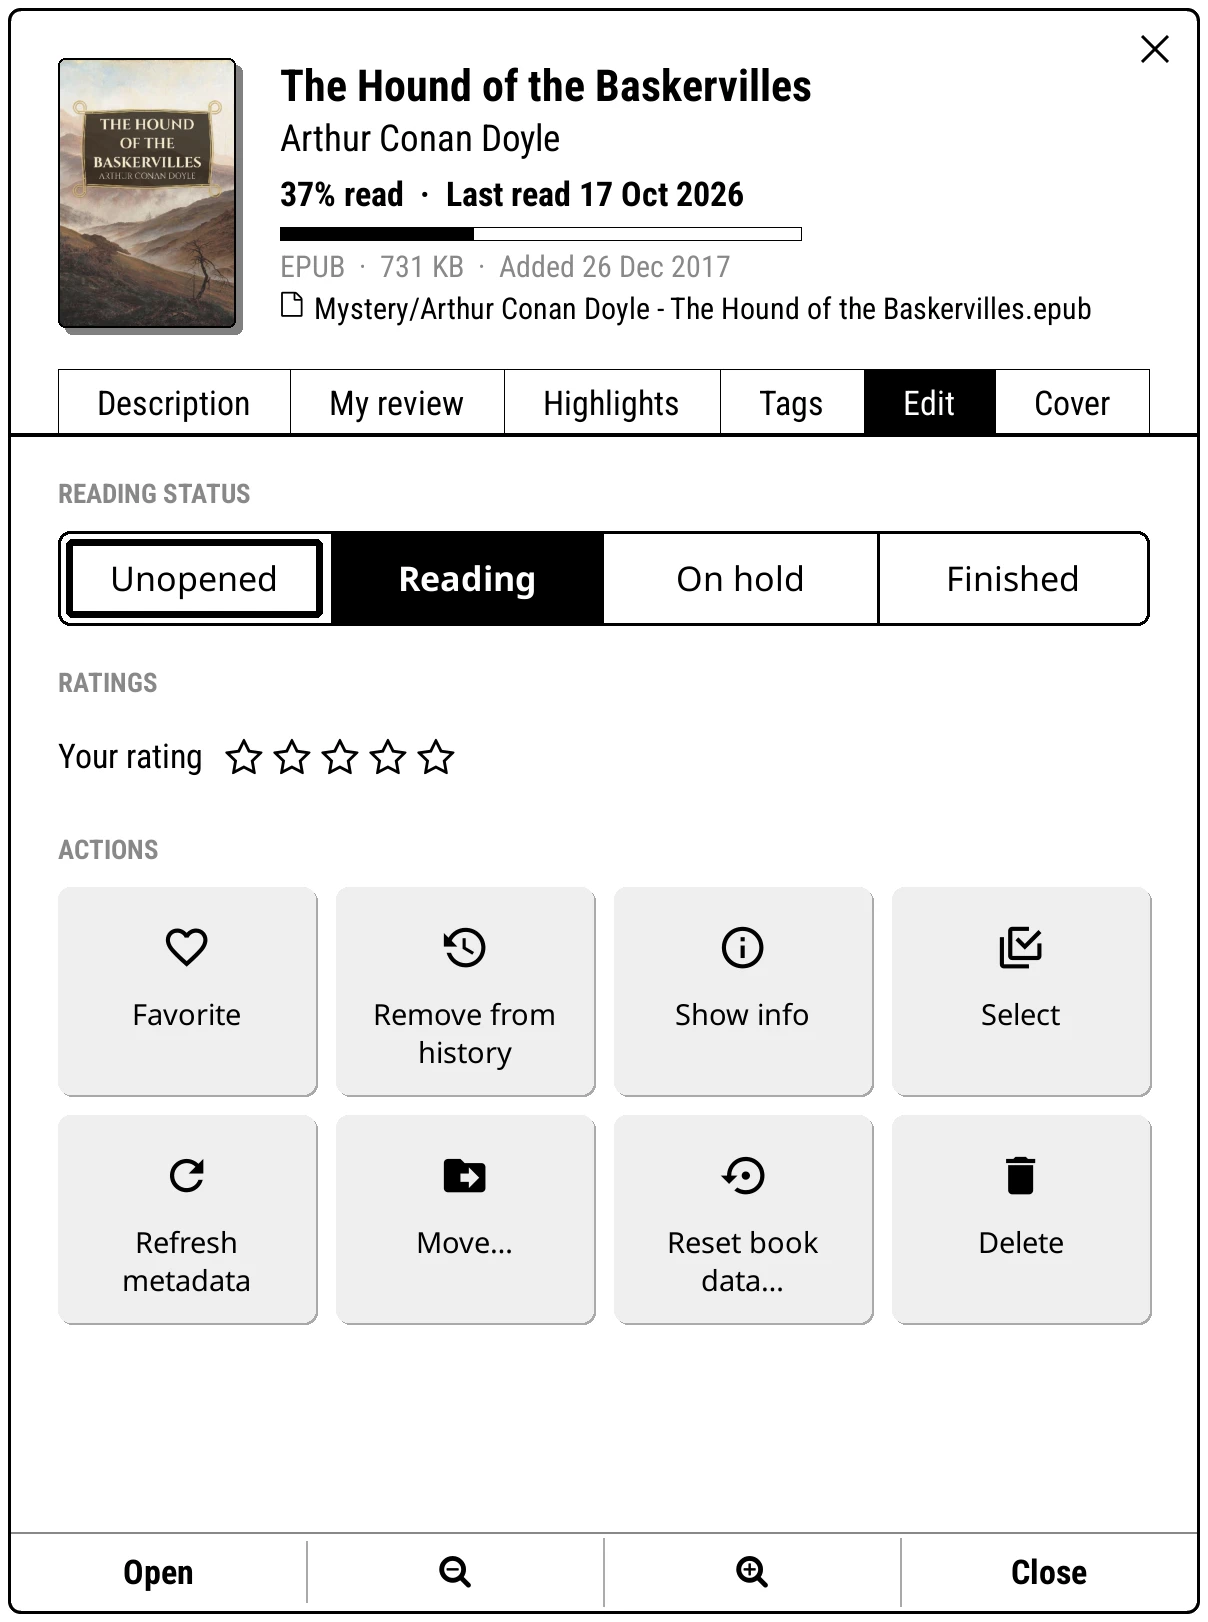
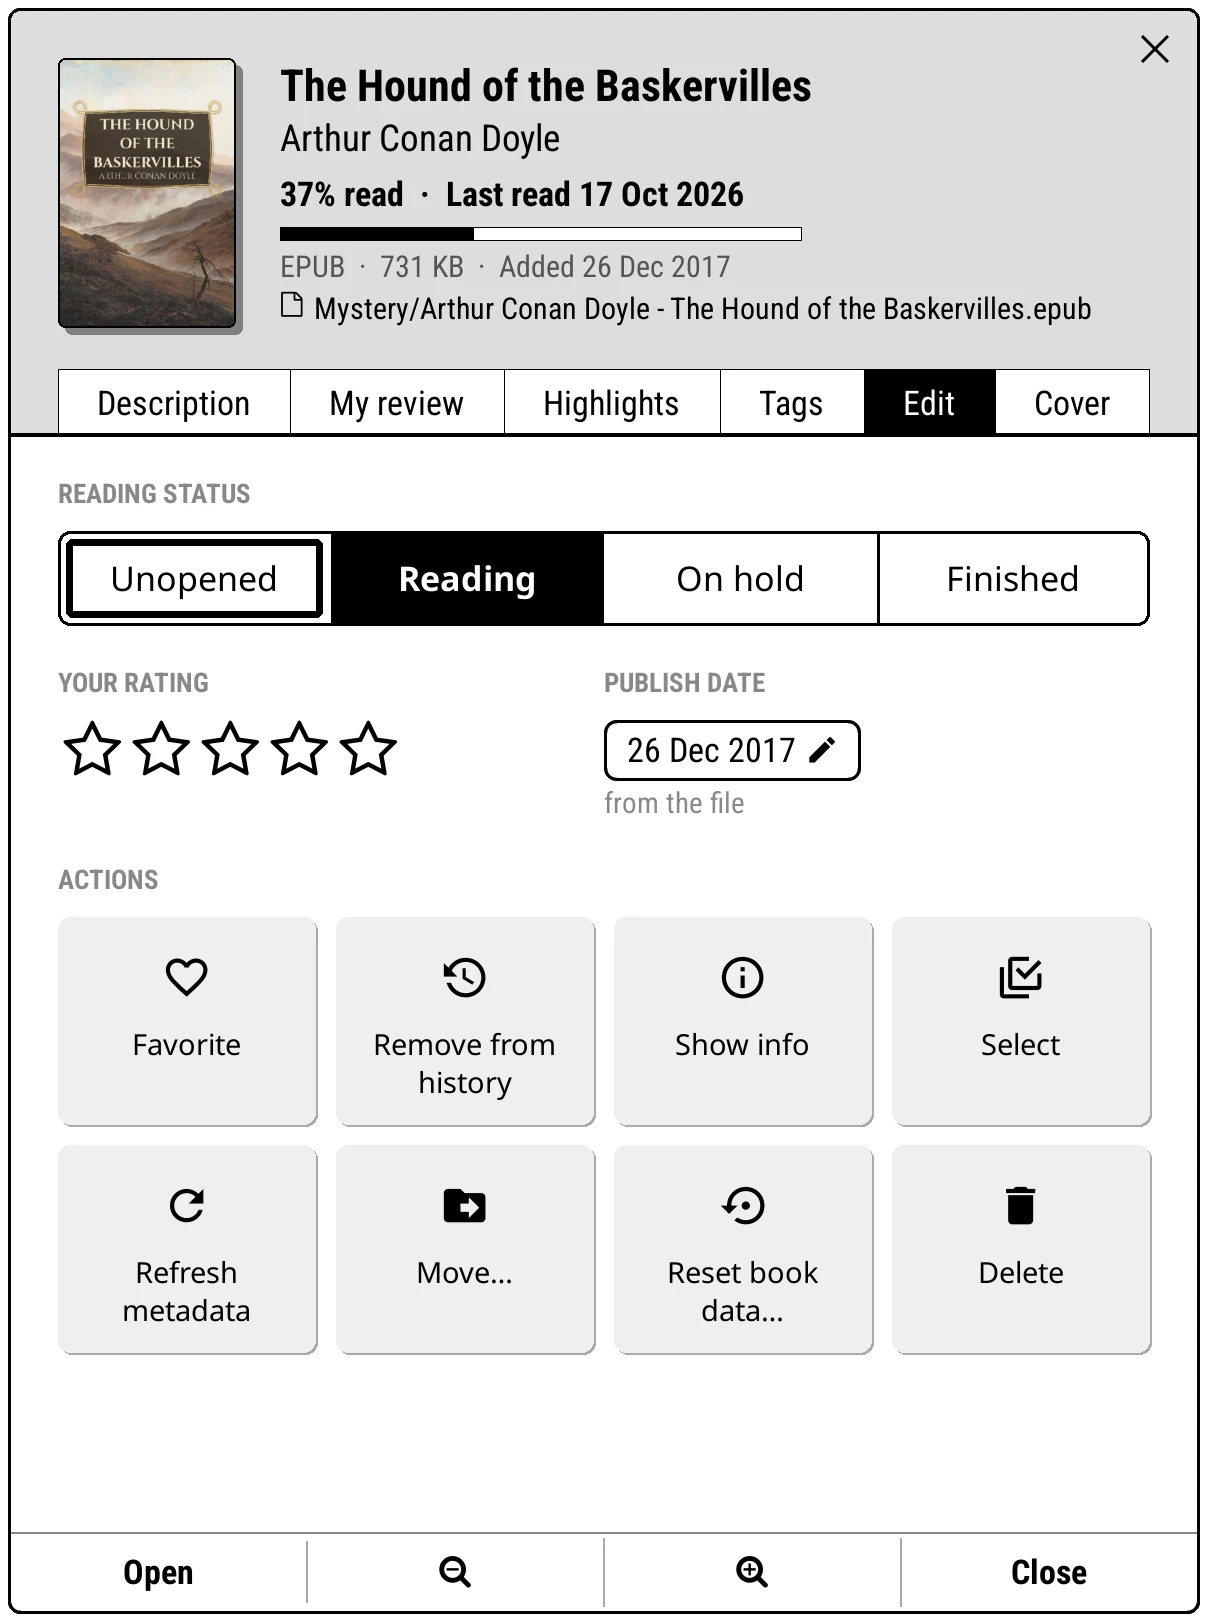
6.3.2: wallpaper scaling, the Published sort, the book menu's publish date
What's new and the version stamp; wallpaper Scaling and the redesigned
browser (screen-shaped previews, the picture on screen is the one used);
Published on the Sort page; the Edit tab's Your rating / Hardcover / Publish
date row, the date picker and long-press to clear a rating; %published's
sources in order; Hardcover's first-published year; Random book's All books
and the Kindle library. Re-recorded the Edit tab, the wallpaper browser and
the Sort page.

Claude-Session: https://claude.ai/code/session_01JgJkg2kpmXwo4V6m4aKBga

diff --git a/docs/customise/wallpaper-colours.md b/docs/customise/wallpaper-colours.md
@@ -15,7 +15,10 @@ Both live in the Theme menu: open KOReader's menu, then **Theme** on the Bookshe
 **Theme > Wallpaper** holds:
 
 **Wallpaper**
-:   A picture behind the whole shelf. The browser shows each one large, with tabs for **All**, **Yours** and each pack. **No wallpaper** turns it off. One comes with Bookshelf: **Leafy wallpaper**.
+:   A picture behind the whole shelf. The browser shows each one large, in the shape of your screen and laid out as it will be, with tabs for **All**, **Yours** and each pack. In portrait the picture on screen is the one used: page through, and it changes behind the browser when you stop. In landscape, four to a page, tap one; the one in use is outlined. **No wallpaper** turns it off. One comes with Bookshelf: **Leafy wallpaper**.
+
+**Scaling**
+:   At the foot of the browser, for a picture that isn't the shape of your screen: **Stretch** (the default) squeezes it to fit, **Crop to fill** covers the screen and trims the edges, **Fit to screen** shows all of it with **Color behind wallpaper** round it. Each tap shows the next. The same for both wallpapers; PNG and JPEG pictures only, others stretch.
 
 **Full screen wallpaper**
 :   A different picture for full screen shelves, or **Same as wallpaper**. Full screen is wall-to-wall books, where a busy picture can be too much.
@@ -56,7 +59,7 @@ Both live in the Theme menu: open KOReader's menu, then **Theme** on the Bookshe
 
 ### Your own pictures
 
-Copy PNG or JPEG pictures into `koreader/settings/bookshelf/wallpapers` on your device and they appear under **Yours**. A portrait picture the size of your screen looks best.
+Copy PNG or JPEG pictures into `koreader/settings/bookshelf/wallpapers` on your device and they appear under **Yours**. A portrait picture the size of your screen looks best; any other shape is stretched unless you change **Scaling**.
 
 If you keep pictures somewhere else already, **Extra wallpaper folder** at the bottom of the menu adds that folder too, without changing anything in it.
 

diff --git a/docs/reference/whats-new.md b/docs/reference/whats-new.md
@@ -4,9 +4,23 @@ description: What's new in recent versions of Bookshelf, with links to where eac
 
 # What's new
 
-<span class="tag">These pages describe Bookshelf 6.3.1</span>
+<span class="tag">These pages describe Bookshelf 6.3.2</span>
 
 Full release notes for every version are on [GitHub Releases](https://github.com/AndyHazz/bookshelf.koplugin/releases), and in the app under **Bookshelf > Updates > View changelog**.
+
+## 6.3.2
+
+**Wallpaper scaling**
+:   A picture that isn't the shape of your screen can be stretched (as before), cropped to fill, or fitted with a margin: **Scaling** at the foot of the wallpaper browser. The browser now shows each picture in your screen's shape, as it will look, and in portrait the picture on screen is the one used. [More](../customise/wallpaper-colours.md#wallpaper)
+
+**Sort by publication year**
+:   **Published** under **Book** on a shelf's Sort page, newest first: the same year as `%published`. Books whose year hasn't been read yet go last, then move into place once it has. [More](../organise/sources-filters.md#sorting)
+
+**See and correct a book's date**
+:   The book menu's Edit tab shows the publish date beside your rating and Hardcover's, with where it came from, and a date picker to correct it. With **Use Hardcover metadata** on, linked books use Hardcover's first-published year. Long-press your stars to clear your rating. [More](../use/book-menu.md#the-edit-tab)
+
+**Fixes**
+:   Books added by **Scan all library metadata** show in their series straight away, and changing a book's rating or status no longer clears its stored page count and date. **Random book**'s **All books** includes your Kindle library when you have a Kindle Virtual Library shelf.
 
 ## 6.3.1
 

diff --git a/docs/use/book-menu.md b/docs/use/book-menu.md
@@ -74,8 +74,12 @@ Cover
 **Reading status**
 :   **Unopened**, **Reading**, **On hold** or **Finished**. Unopened clears progress and drops the book from Recent, without touching highlights or bookmarks.
 
-**Ratings**
-:   **Your rating**: tap a star to rate, or tap your current rating to clear it. With Hardcover linked, Hardcover's rating sits beside it; tap its stars for Hardcover's reviews.
+**Your rating**, **Hardcover** and **Publish date**
+:   Side by side under the reading status. **Your rating**: tap a star to rate. To clear it, tap your current rating again, or long-press the stars and confirm **Clear your rating?**. With Hardcover linked, its rating is next, the number in the heading; tap its stars for Hardcover's reviews.
+
+    **Publish date** is the date `%published` and the **Published** sort use, with where it came from underneath: **from the file**, **from calibre**, **from the catalog**, **from Hardcover** or **set by you**. Many ebooks carry the date the ebook was made rather than when the book was first published, so check it before trusting it. Tap the date to pick another in a date picker; once you have set one, the picker's **Use the book's date (…)** goes back to the book's own. **Set date** shows when there is none: **Checking the file…** while Bookshelf reads it (it fills in by itself), or **None in the file**.
+
+    On a small screen or with large text, the ratings stack and the publish date gets a row of its own below the actions.
 
 **Actions**
 :   A card for each thing you can do with the book:

diff --git a/docs/customise/micro-modules.md b/docs/customise/micro-modules.md
@@ -139,7 +139,7 @@ To hide them all at once, turn off **Bookshelf > Settings > Modules > On the she
 | **Recently read** | Covers of the books you opened last. Tap to open. | **Books to show**, or **Fit** for as many as the module holds. |
 | **Shelf** | One of your shelves, in its own style: covers, or spines on a plank. Tap a book to open it. | **Create new shelf…** (or **Edit this shelf…** once it has one), **Use existing shelf…**, the number of rows (**Rows: Auto** fits your main shelf's cover size), **Heading text…** and **Hide heading**. |
 | **Ornament** | A piece from your ornament packs, drawn bare on the wallpaper. | **Change ornament…**, **Tap action…** |
-| **Random book** | Rolls a book into the top panel; tap the dice for another. | From the **Current shelf** or **All books**; which statuses; **On tap**: show it, or open it. |
+| **Random book** | Rolls a book into the top panel; tap the dice for another. | From the **Current shelf** or **All books** (your home folder, plus your Kindle library once you have a Kindle Virtual Library shelf); which statuses; **On tap**: show it, or open it. |
 | **Shelf size** | How many books are on this shelf, by status. | |
 | **Countdown** | Days until (or since) a date. Add several, each with its own label. | **Change date…**, **Change label…** |
 | **Action** | A button that runs a plugin or action. | **Change action…**, **Icon…**, **Label…** |

diff --git a/docs/reference/menus.md b/docs/reference/menus.md
@@ -246,7 +246,7 @@ Opened from **This shelf**, a shelf under **Other shelves**, **Default theme**, 
 !shot:side pack-wallpaper-browser | Wallpaper browser
 
 Wallpaper browser
-:   Tabs **All**, **Yours**, then one per pack with a wallpaper. Tap a picture to use it straight away. The strip has **Same as wallpaper** (full screen browser only) and **No wallpaper**; the X in the title closes it.
+:   Tabs **All**, **Yours**, then one per pack with a wallpaper. Each picture is shown in the screen's shape, as the current scaling lays it. In portrait, one to a page, the picture on screen is used once you stop paging; in landscape, tap one (the one in use is outlined). The strip has **Same as wallpaper** (full screen browser only) and **No wallpaper**. The footer has **Scaling** (**Stretch**, **Crop to fill**, **Fit to screen**; default Stretch) and **Close**.
 
 !shot:side pack-plank-browser | Plank browser
 
@@ -765,6 +765,7 @@ On a grouped shelf, the first level is **Order the groups by** and cannot be rem
     | **Author** | Author's first name | A-Z |
     | **Surname** | Author's surname | A-Z |
     | **Filename** | File name | A-Z |
+    | **Published** | Publication year (as `%published`); no year last | Newest first |
     | **Series** | Series name | A-Z |
     | **Series #** | Number in the series | 1, 2, 3 |
     | **Series + #** | Series name, then number | A-Z |

diff --git a/docs/reference/tokens.md b/docs/reference/tokens.md
@@ -167,7 +167,7 @@ In the top panel and status line, `[font=NAME]` sets the font for the whole sect
 | `%filename` | File name | *Dune* |
 | `%format` | File format | *EPUB* |
 | `%size` | File size | *2.2 MB* |
-| `%published` | Publication year: from Calibre with **Read calibre metadata.calibre** on, else the OPDS catalogue (kept when you download a book), else the book file (EPUB, FB2, MOBI, AZW3, comics, PDF). Empty when there is none. Try `%authors_short [if:published](%published)[/if]`. | *1965* |
+| `%published` | Publication year: a date you set in the book menu's Edit tab, else Hardcover's first-published year (with **Use Hardcover metadata** on), else Calibre's (with **Read calibre metadata.calibre** on), else the OPDS catalogue's (kept when you download a book), else the book file's (EPUB, FB2, MOBI, AZW3, comics, PDF). Empty when there is none. Try `%authors_short [if:published](%published)[/if]`. | *1965* |
 | `%added` | Date the file was added | *2026-05-04* |
 | `%lang` | Language | *en* |
 | `%description` | The blurb, with formatting removed | |

diff --git a/docs/organise/hardcover.md b/docs/organise/hardcover.md
@@ -38,7 +38,7 @@ Under **Bookshelf > Hardcover enrichment**:
 |---------|--------------|
 | **Show Hardcover ratings** | The top panel's rating shows Hardcover's public rating instead of yours. |
 | **Use Hardcover rating if no user rating** | Books you haven't rated use their Hardcover rating, in star ratings on covers, the **Rating** sort and the **Ratings** shelf. |
-| **Use Hardcover metadata** | Linked books use Hardcover's title, author, series and genres. |
+| **Use Hardcover metadata** | Linked books use Hardcover's title, author, series and genres, and its first-published year for `%published` and the **Published** sort. A book linked before 6.3.2 gets the year when its Hardcover details are next refreshed. |
 | **Download covers from Hardcover** | Linking also fetches Hardcover's cover. |
 | **Hardcover genres used** | How many of each book's Hardcover genres to use. |
 

diff --git a/docs/organise/sources-filters.md b/docs/organise/sources-filters.md
@@ -151,6 +151,7 @@ On a grouped shelf, the first level is **Order the groups by** (**Name**, **Surn
     | **Author** | author's first name, A to Z |
     | **Surname** | author's surname, A to Z |
     | **Filename** | A to Z |
+    | **Published** | publication year, newest first; books with no year last (the year `%published` shows) |
     | **Series** | series name, A to Z |
     | **Series #** | number in series |
     | **Series + #** | series name, then number |
